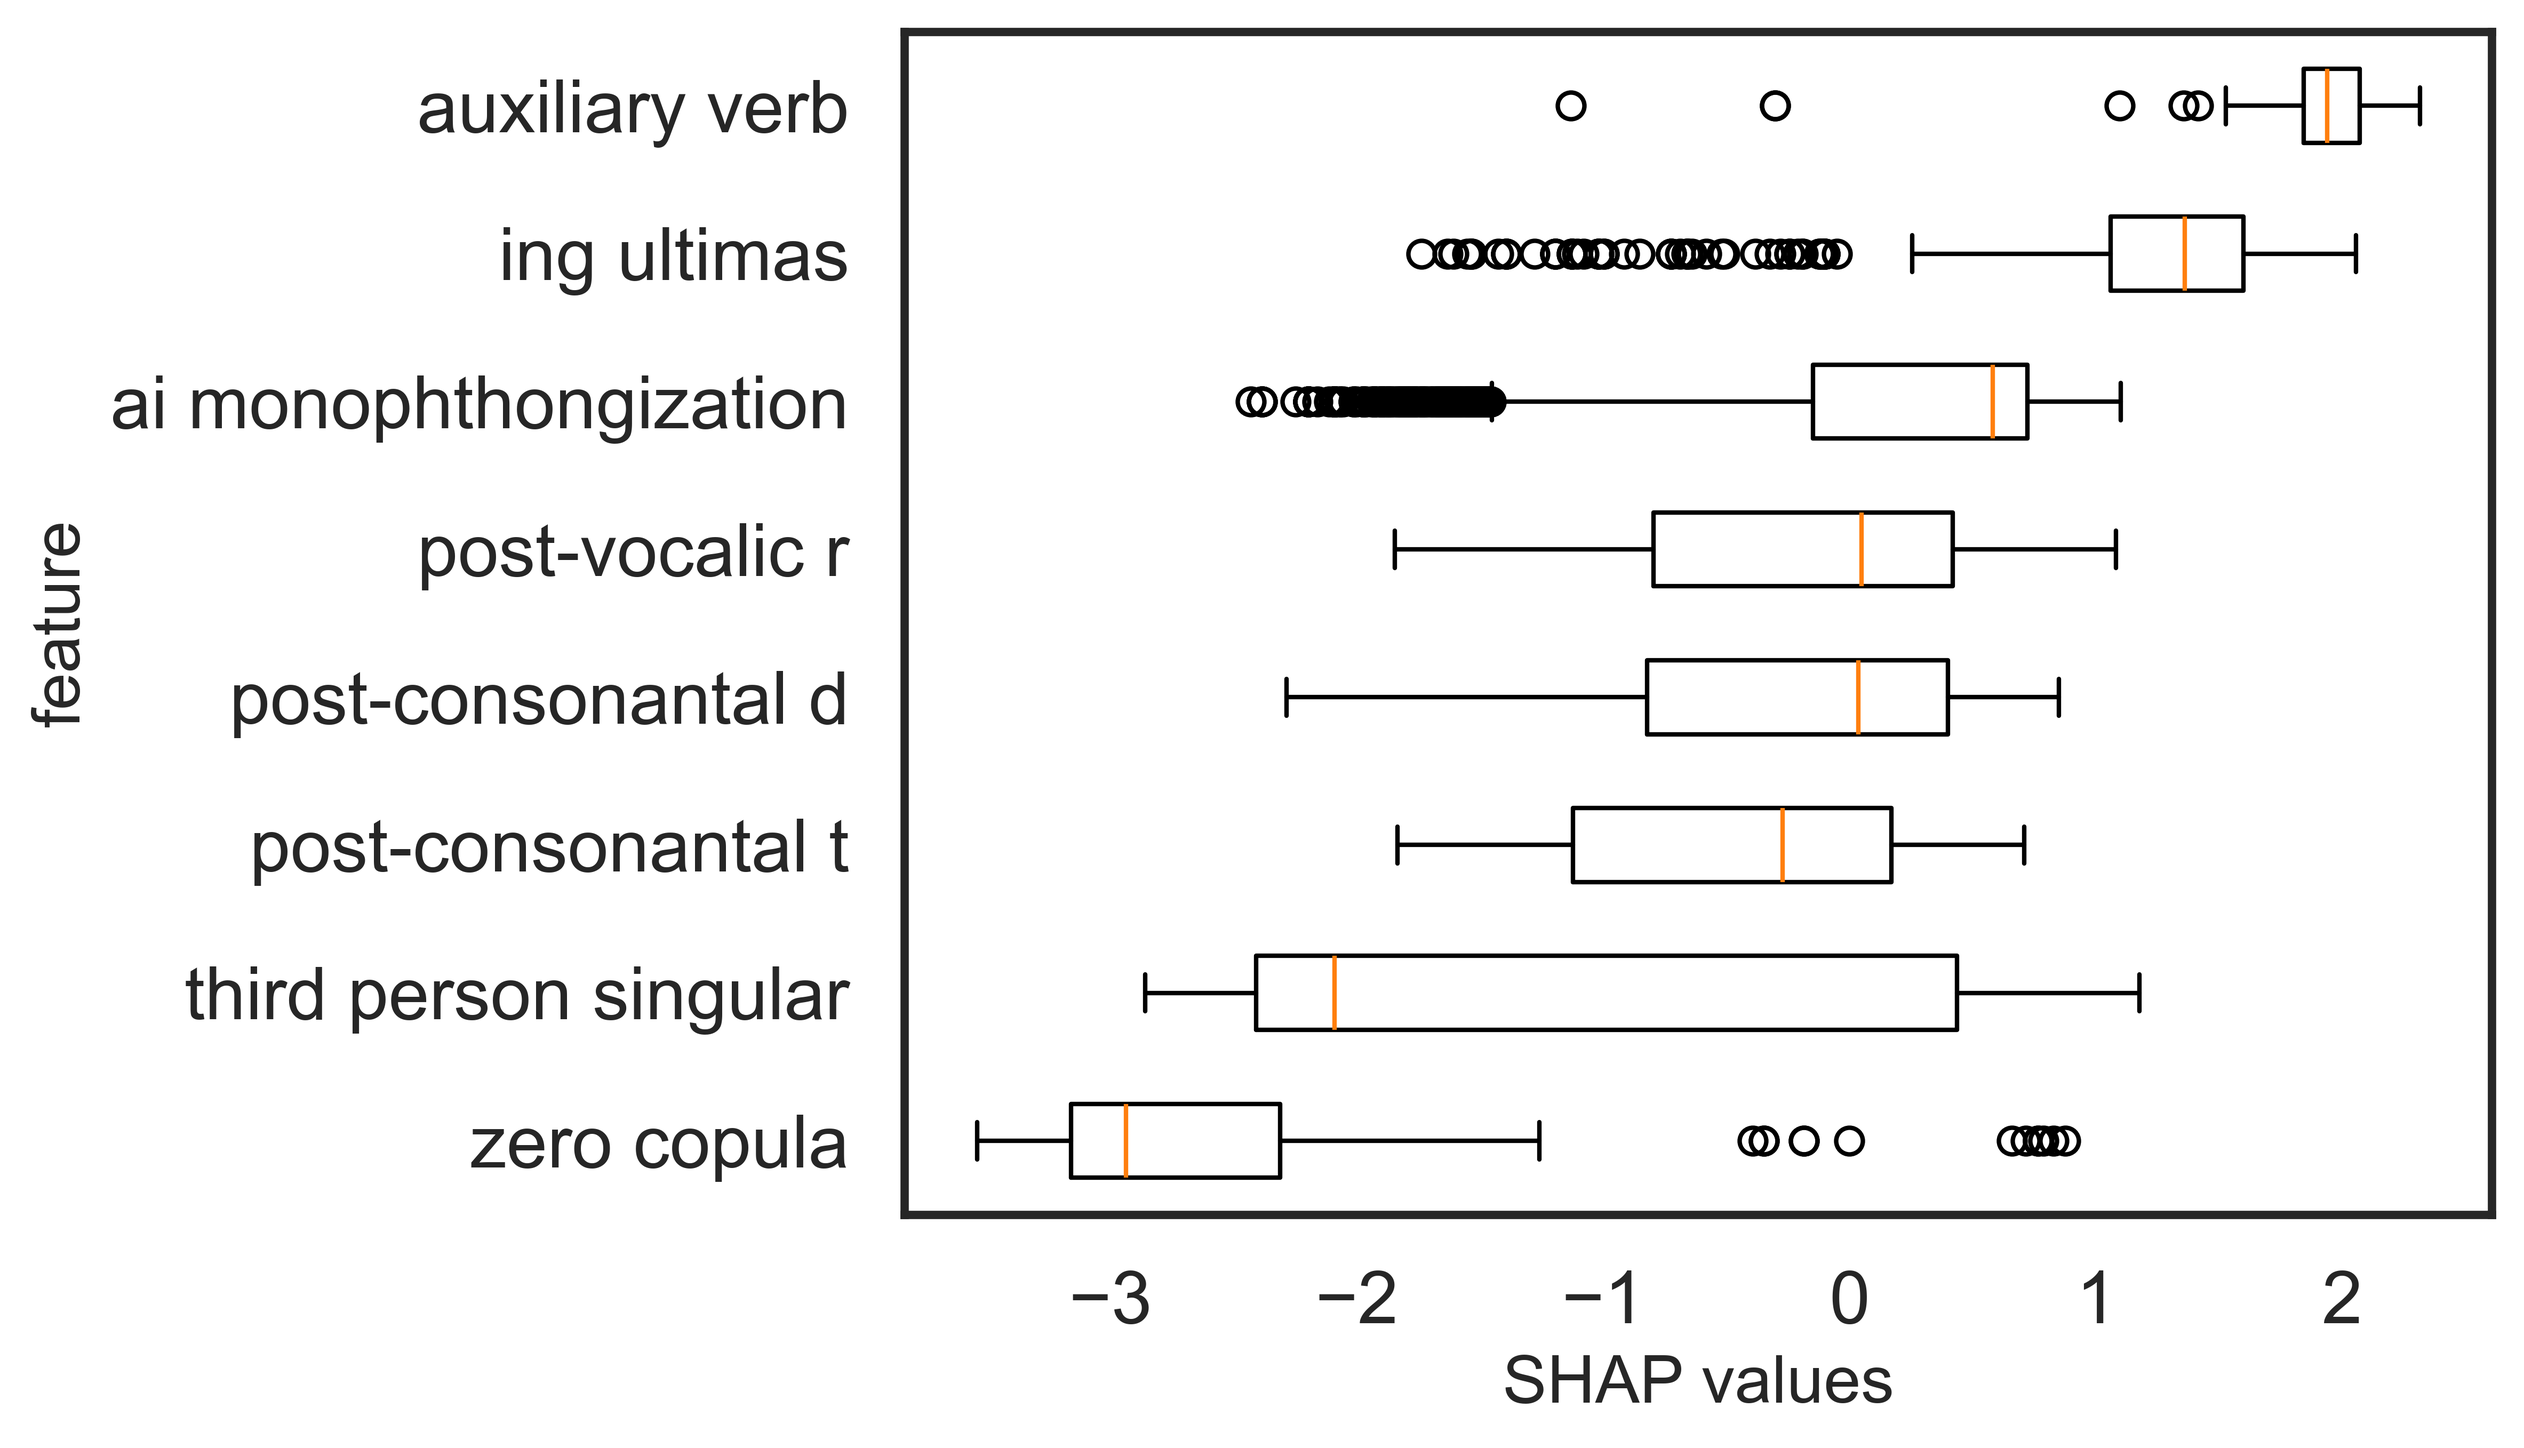
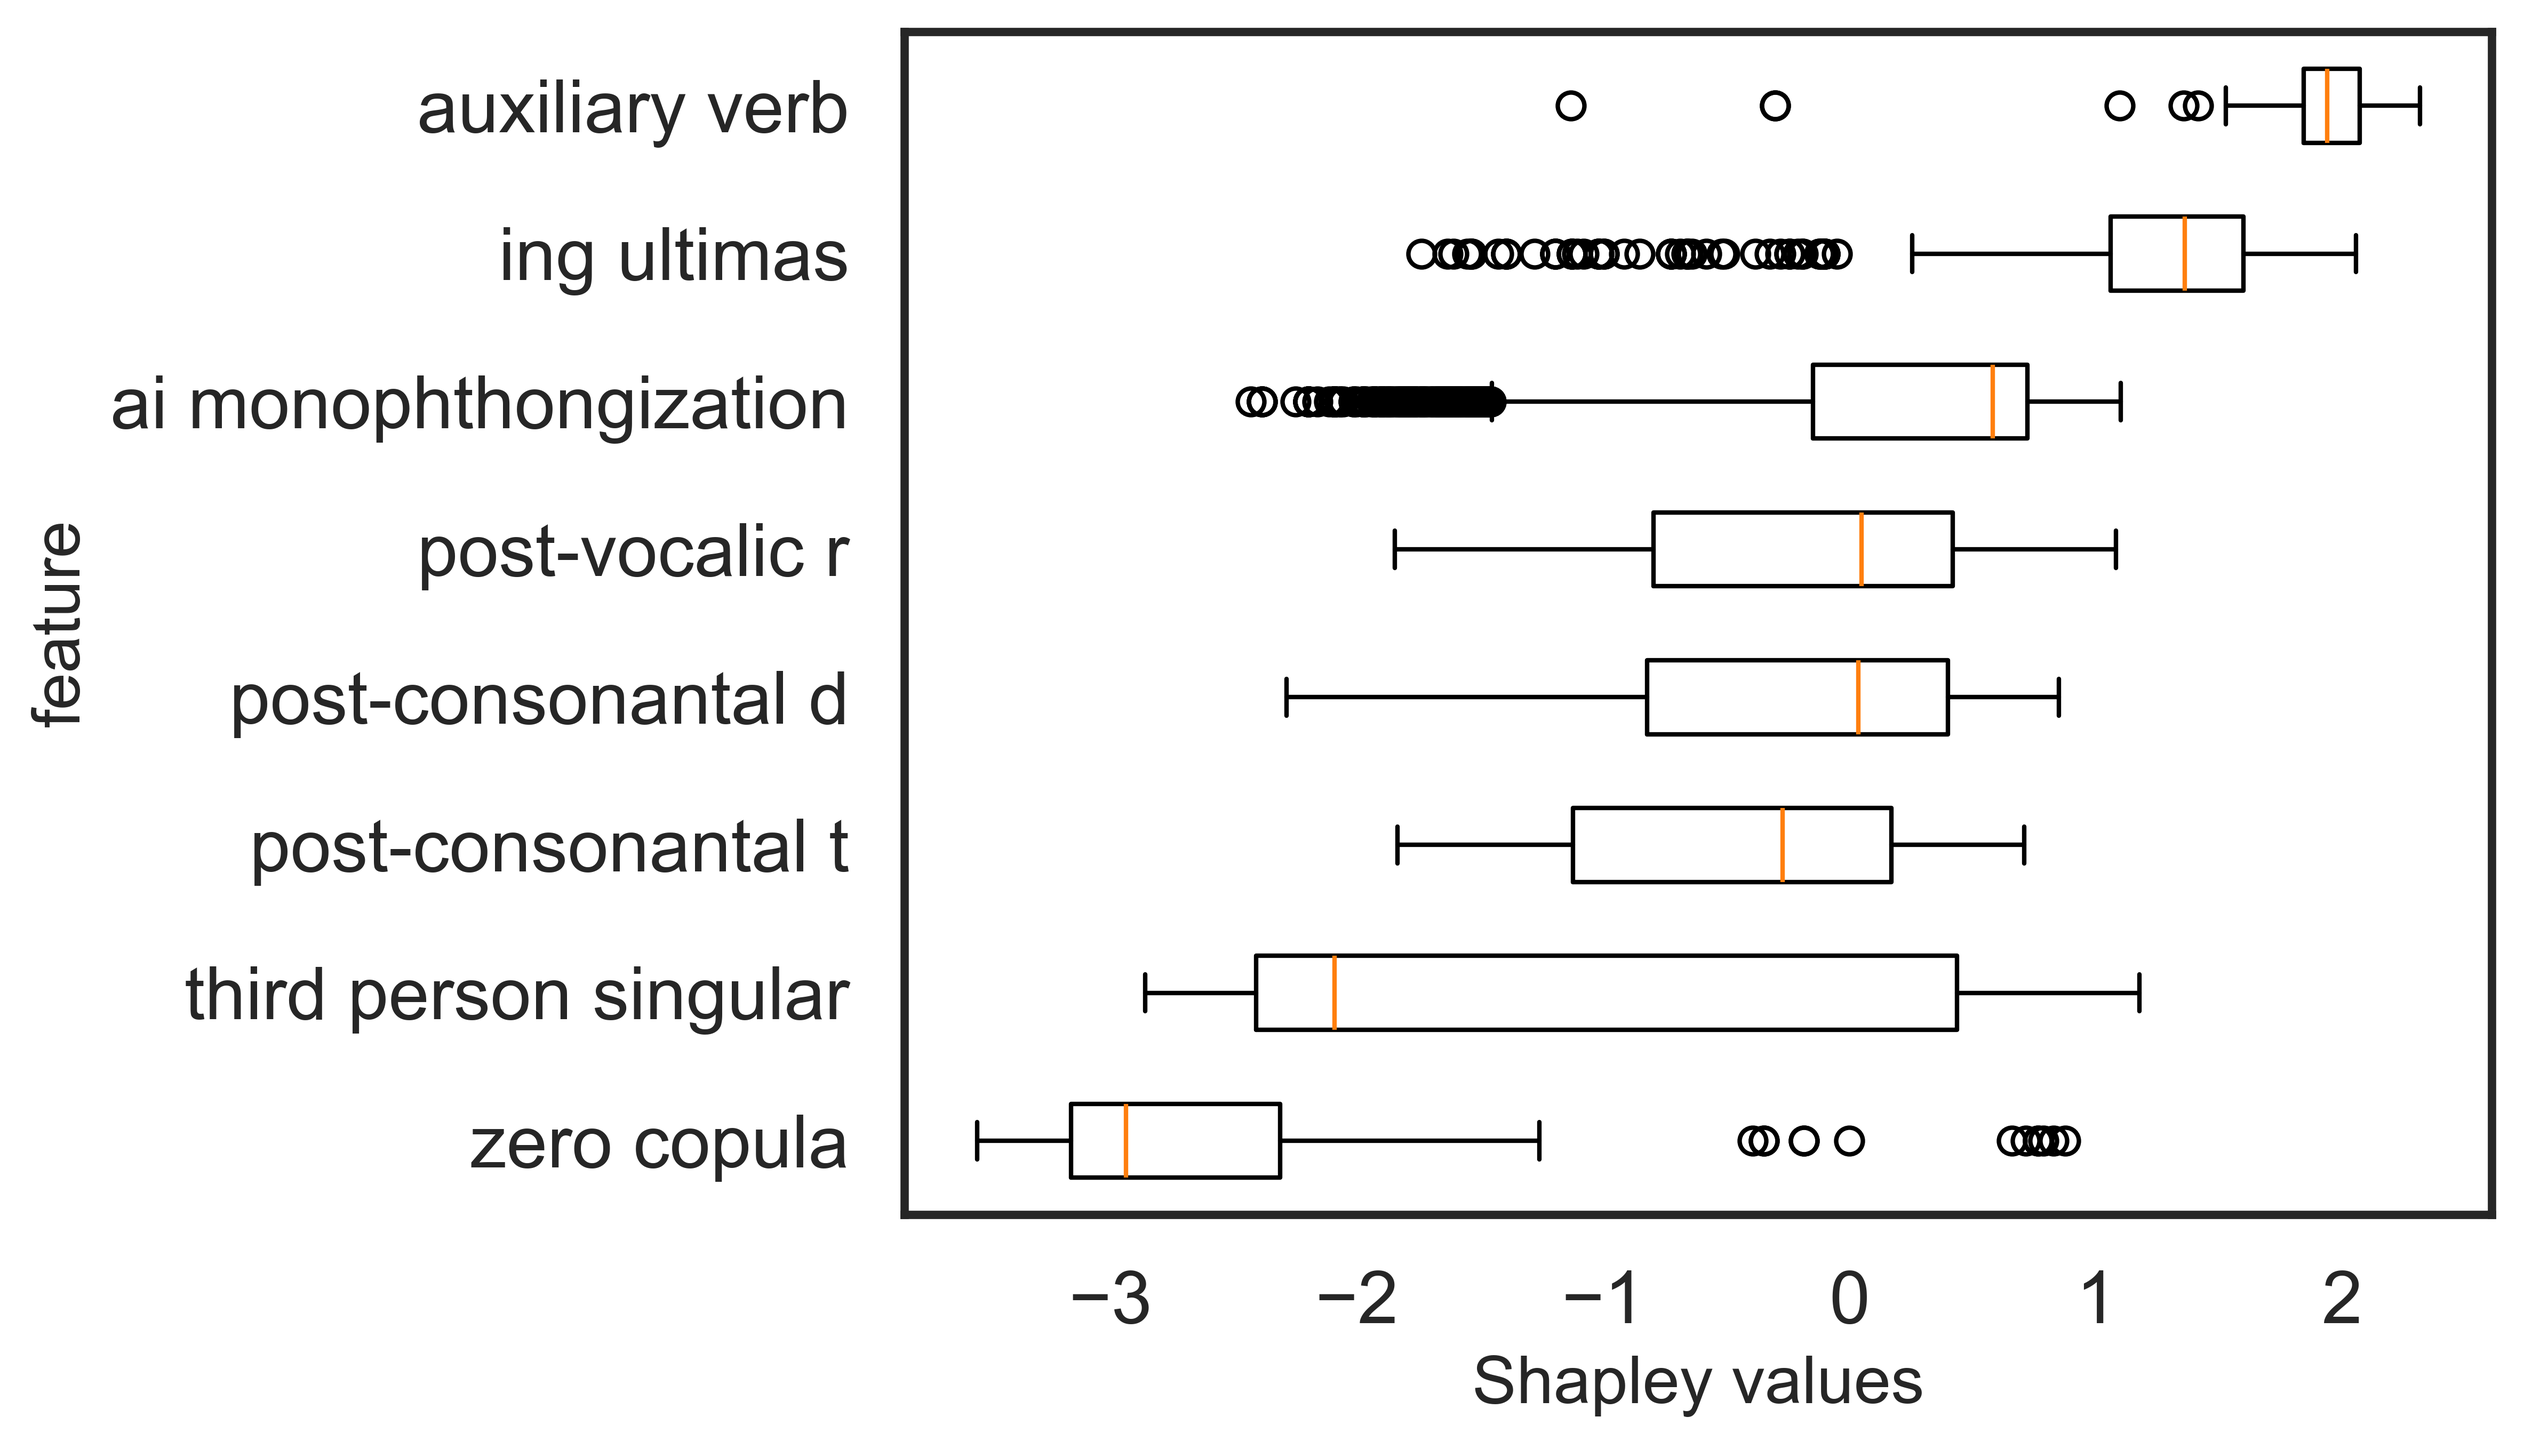
updating shap box plot

Changed region(s): [[0.5902, 0.9282, 0.7766, 0.9901], [0.1864, 0.7735, 0.2175, 0.8044]]

diff --git a/src/visualize.py b/src/visualize.py
@@ -85,7 +85,7 @@ sorted_feature_list = feature_list[sorted_indices]
 sorted_feature_groups = [feature_groups[i] for i in sorted_indices]
 
 plt.boxplot(sorted_feature_groups, labels=sorted_feature_list, vert=False)
-plt.xlabel("SHAP values", size=15)
+plt.xlabel("Shapley values", size=15)
 plt.ylabel("feature", size=15)
 plt.xticks(rotation=0)
 plt.savefig("../reports/figures/shap_box_feature.png", dpi=600, bbox_inches="tight")
